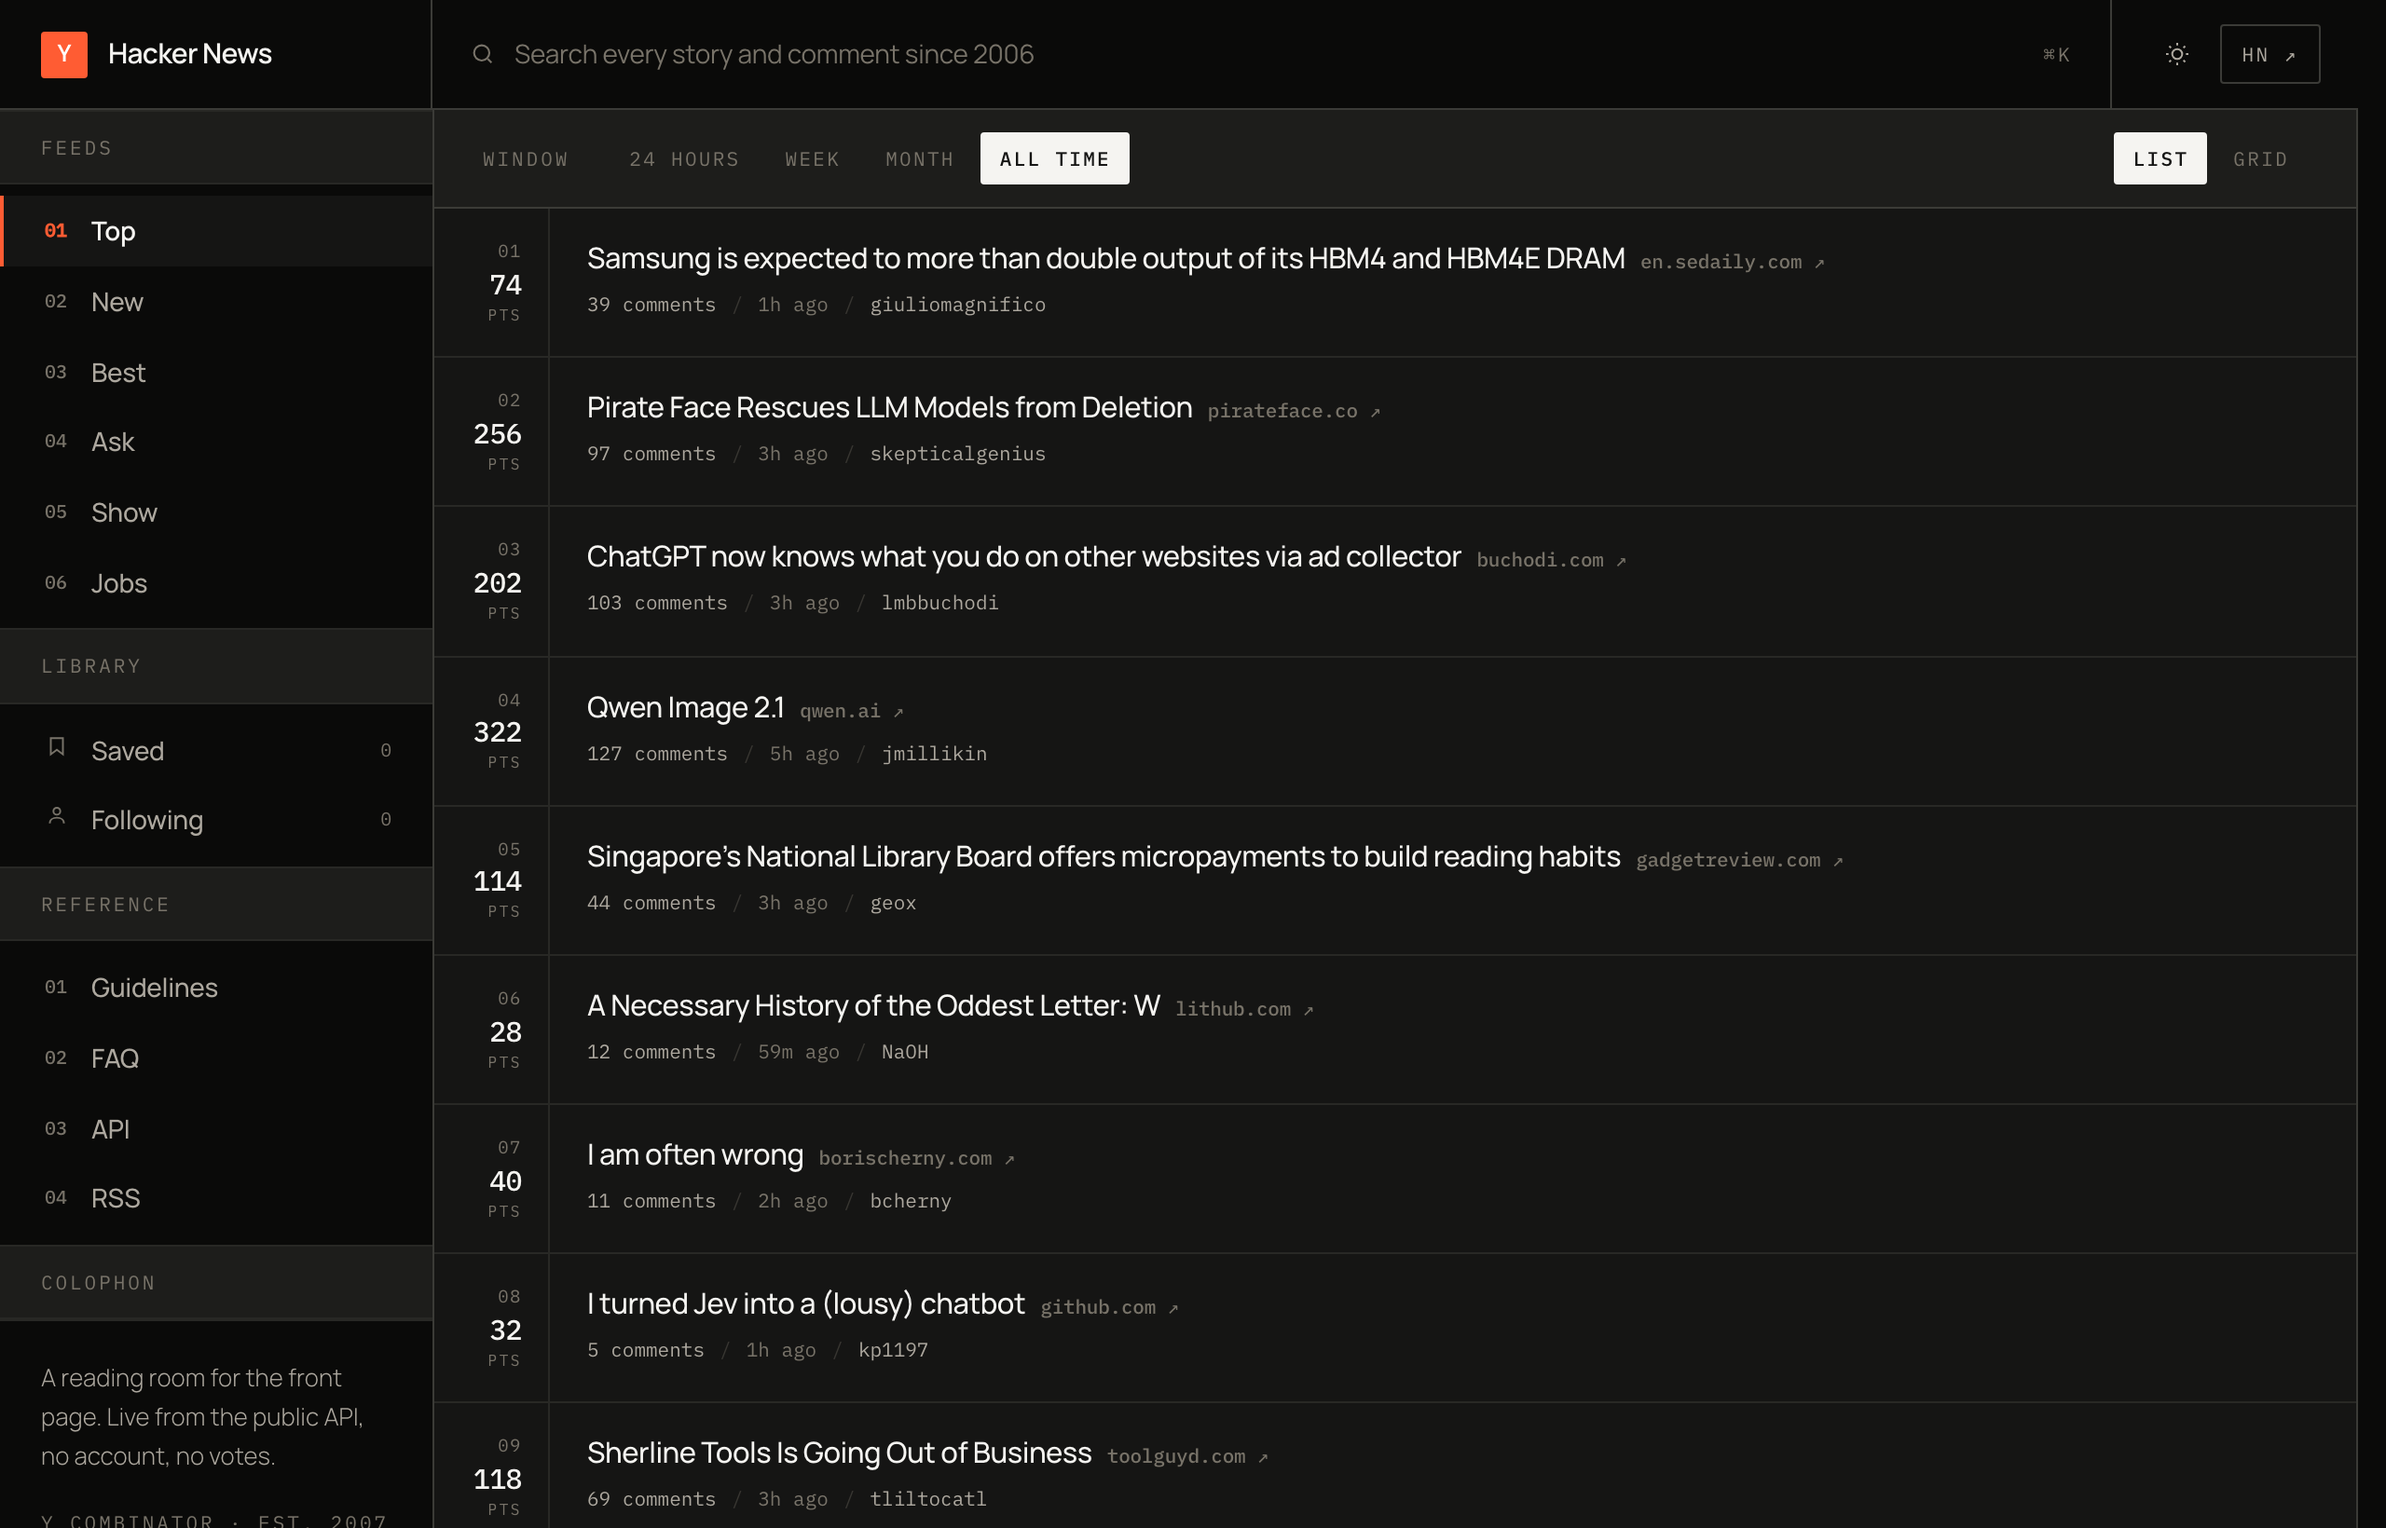
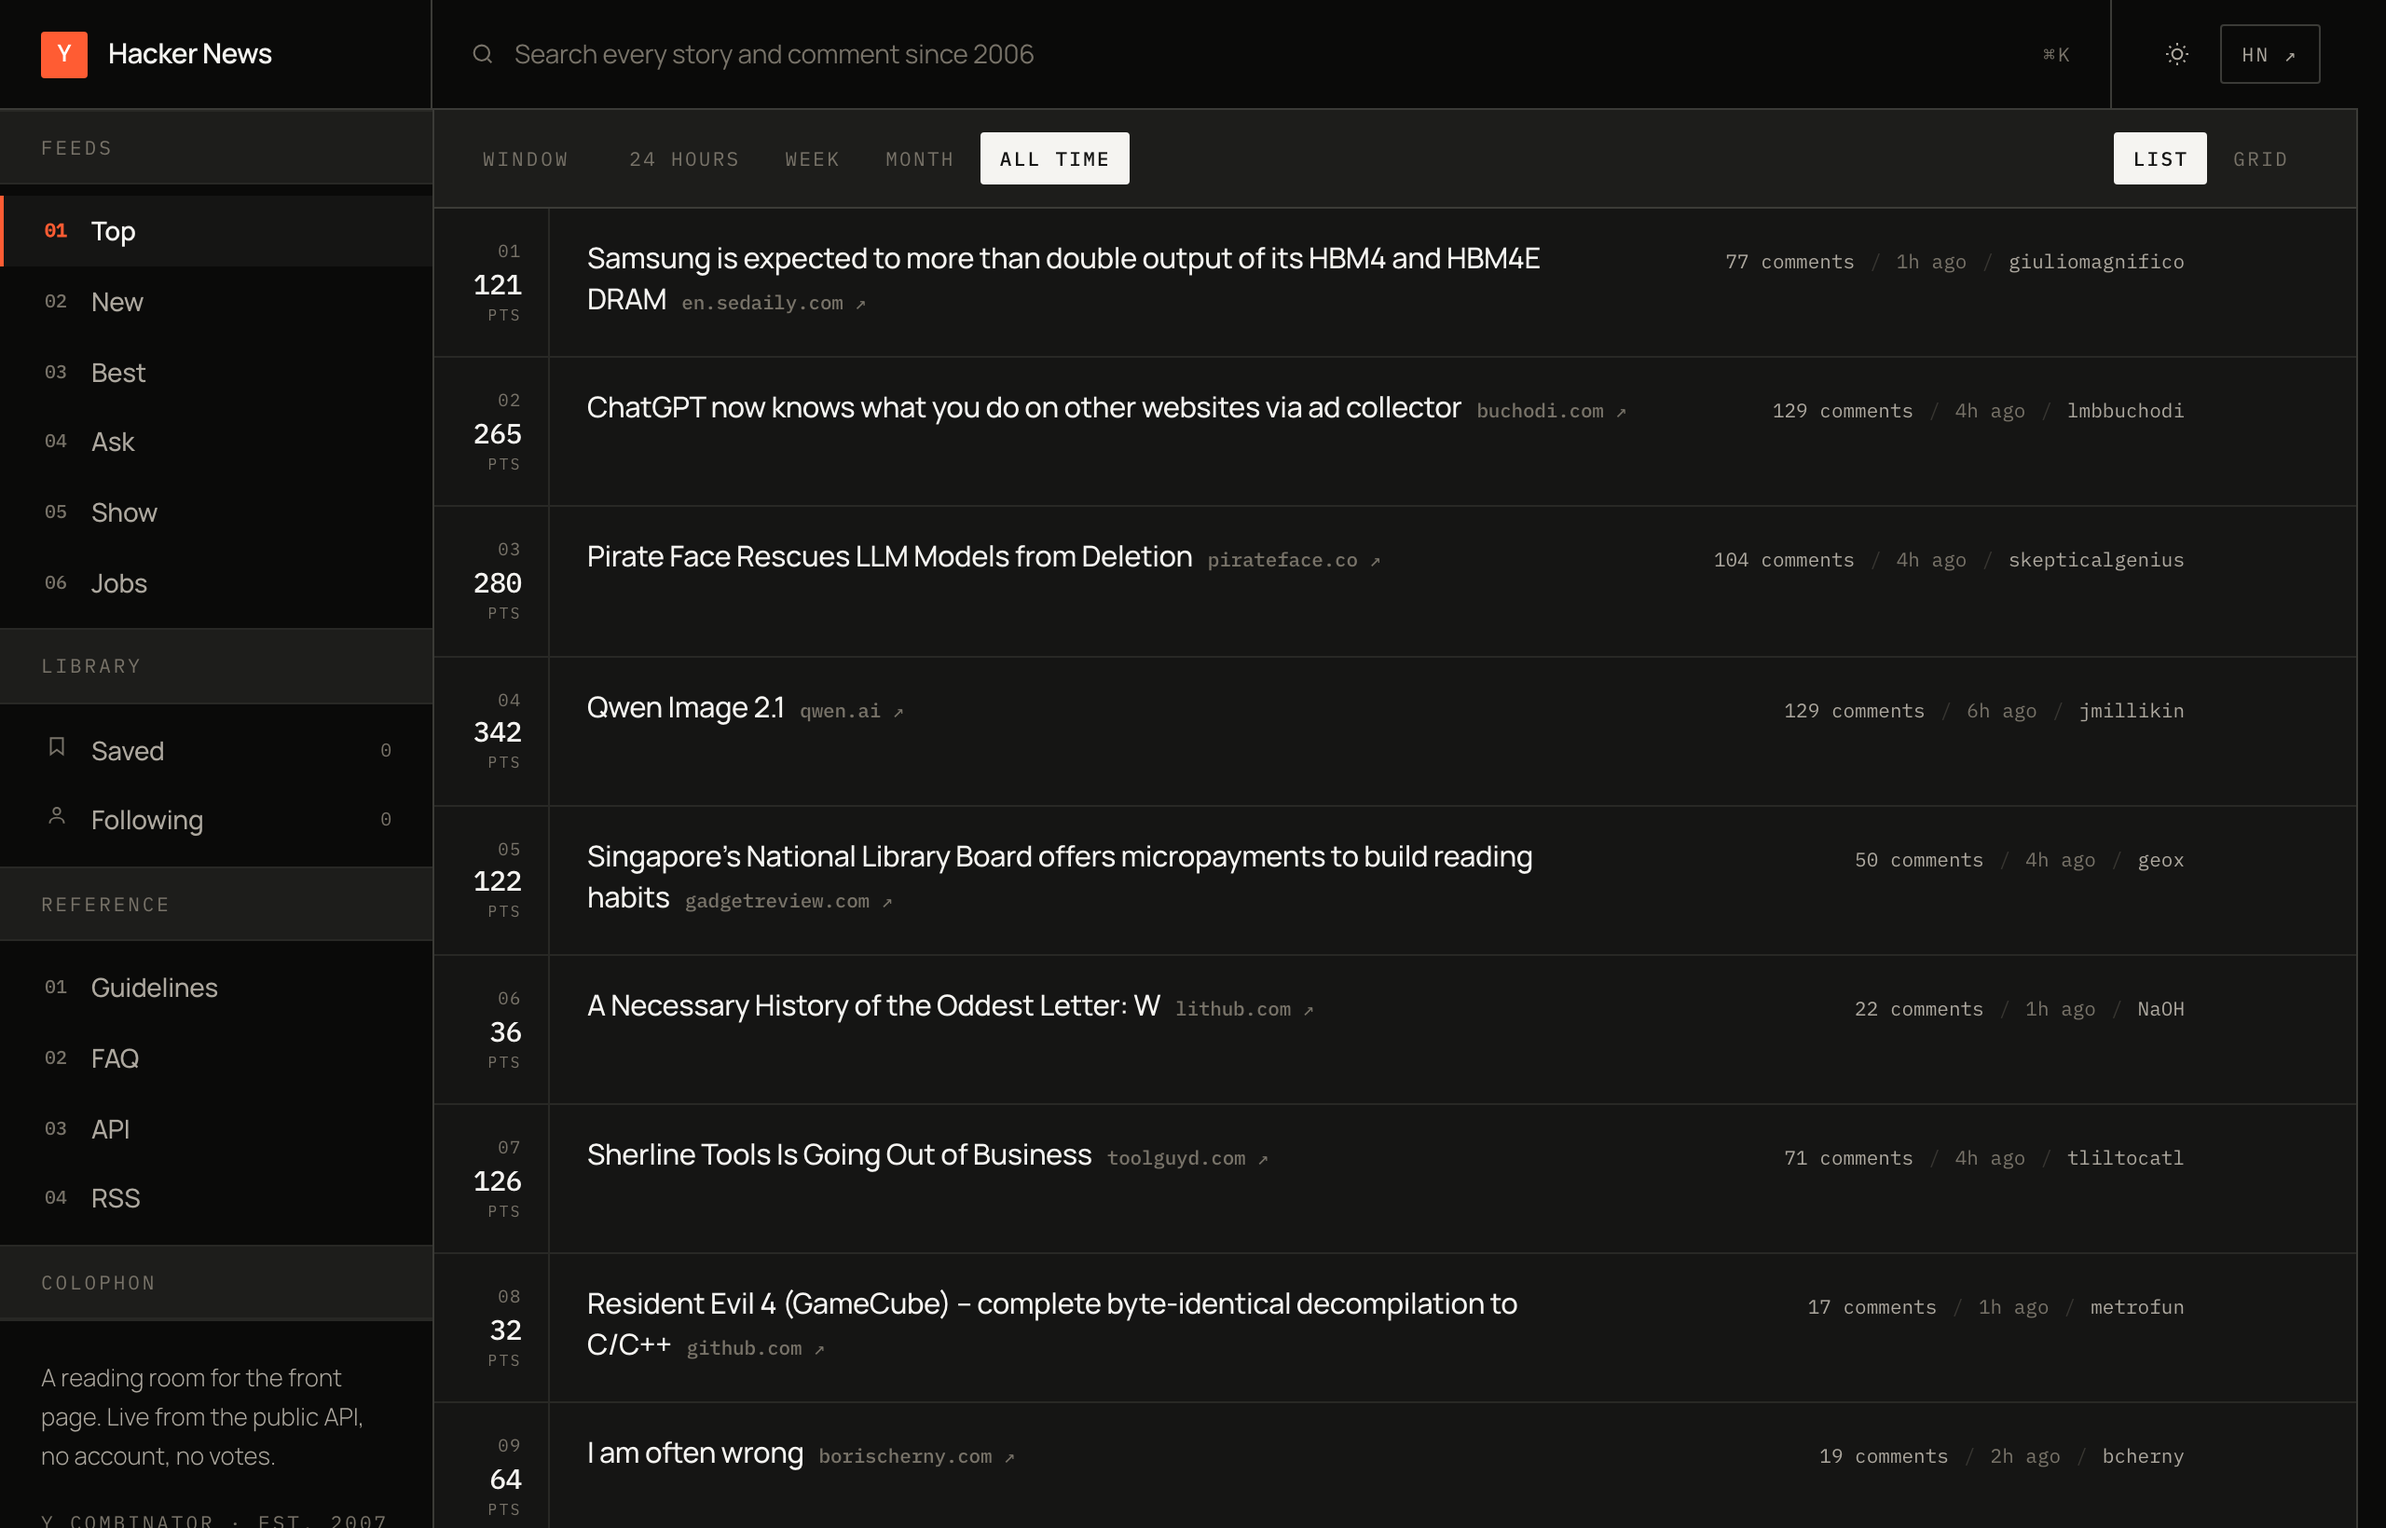
List view: align metadata flush right on wide screens
Below 1080px the row keeps its stacked layout. Above it, the headline and
its metadata share one line, with the headline capped at a 76ch measure so
long titles stay readable instead of sprawling across the full column.

diff --git a/index.html b/index.html
@@ -224,6 +224,15 @@ img{max-width:100%}
 .rows.cards .rbody{padding:7px 20px 16px}
 .rows.cards .dots{display:none}
 
+/* Wide screens: run the row as a single line — headline left, metadata flush
+   right — rather than a short title stranded against a wide empty margin.
+   The headline keeps a readable measure so long titles don't sprawl. */
+@media (min-width:1080px){
+  .rows:not(.cards) .split{display:flex;align-items:baseline;gap:36px}
+  .rows:not(.cards) .split .hl{flex:1 1 auto;min-width:0;max-width:76ch}
+  .rows:not(.cards) .split .sub{margin-top:0;flex:0 0 auto;white-space:nowrap}
+}
+
 /* ==========================================================================
    Menu / toast
    ========================================================================== */
@@ -691,7 +700,7 @@ function rowHTML(s, rank){
       <span class="sc">${s.points>=1000 ? (s.points/1000).toFixed(1)+'k' : s.points}</span>
       <span class="pl">pts</span>
     </div>
-    <div class="rbody">
+    <div class="rbody split">
       <h3 class="hl"><a href="${s.url?esc(s.url):'#/item/'+s.id}" ${s.url?'target="_blank" rel="noopener"':''} data-story="${s.id}">${esc(s.title)}</a>${
         d ? `<span class="dom">${esc(d)} ↗</span>` : `<span class="dom tag" style="margin-left:9px">discussion</span>`}</h3>
       <div class="sub">
